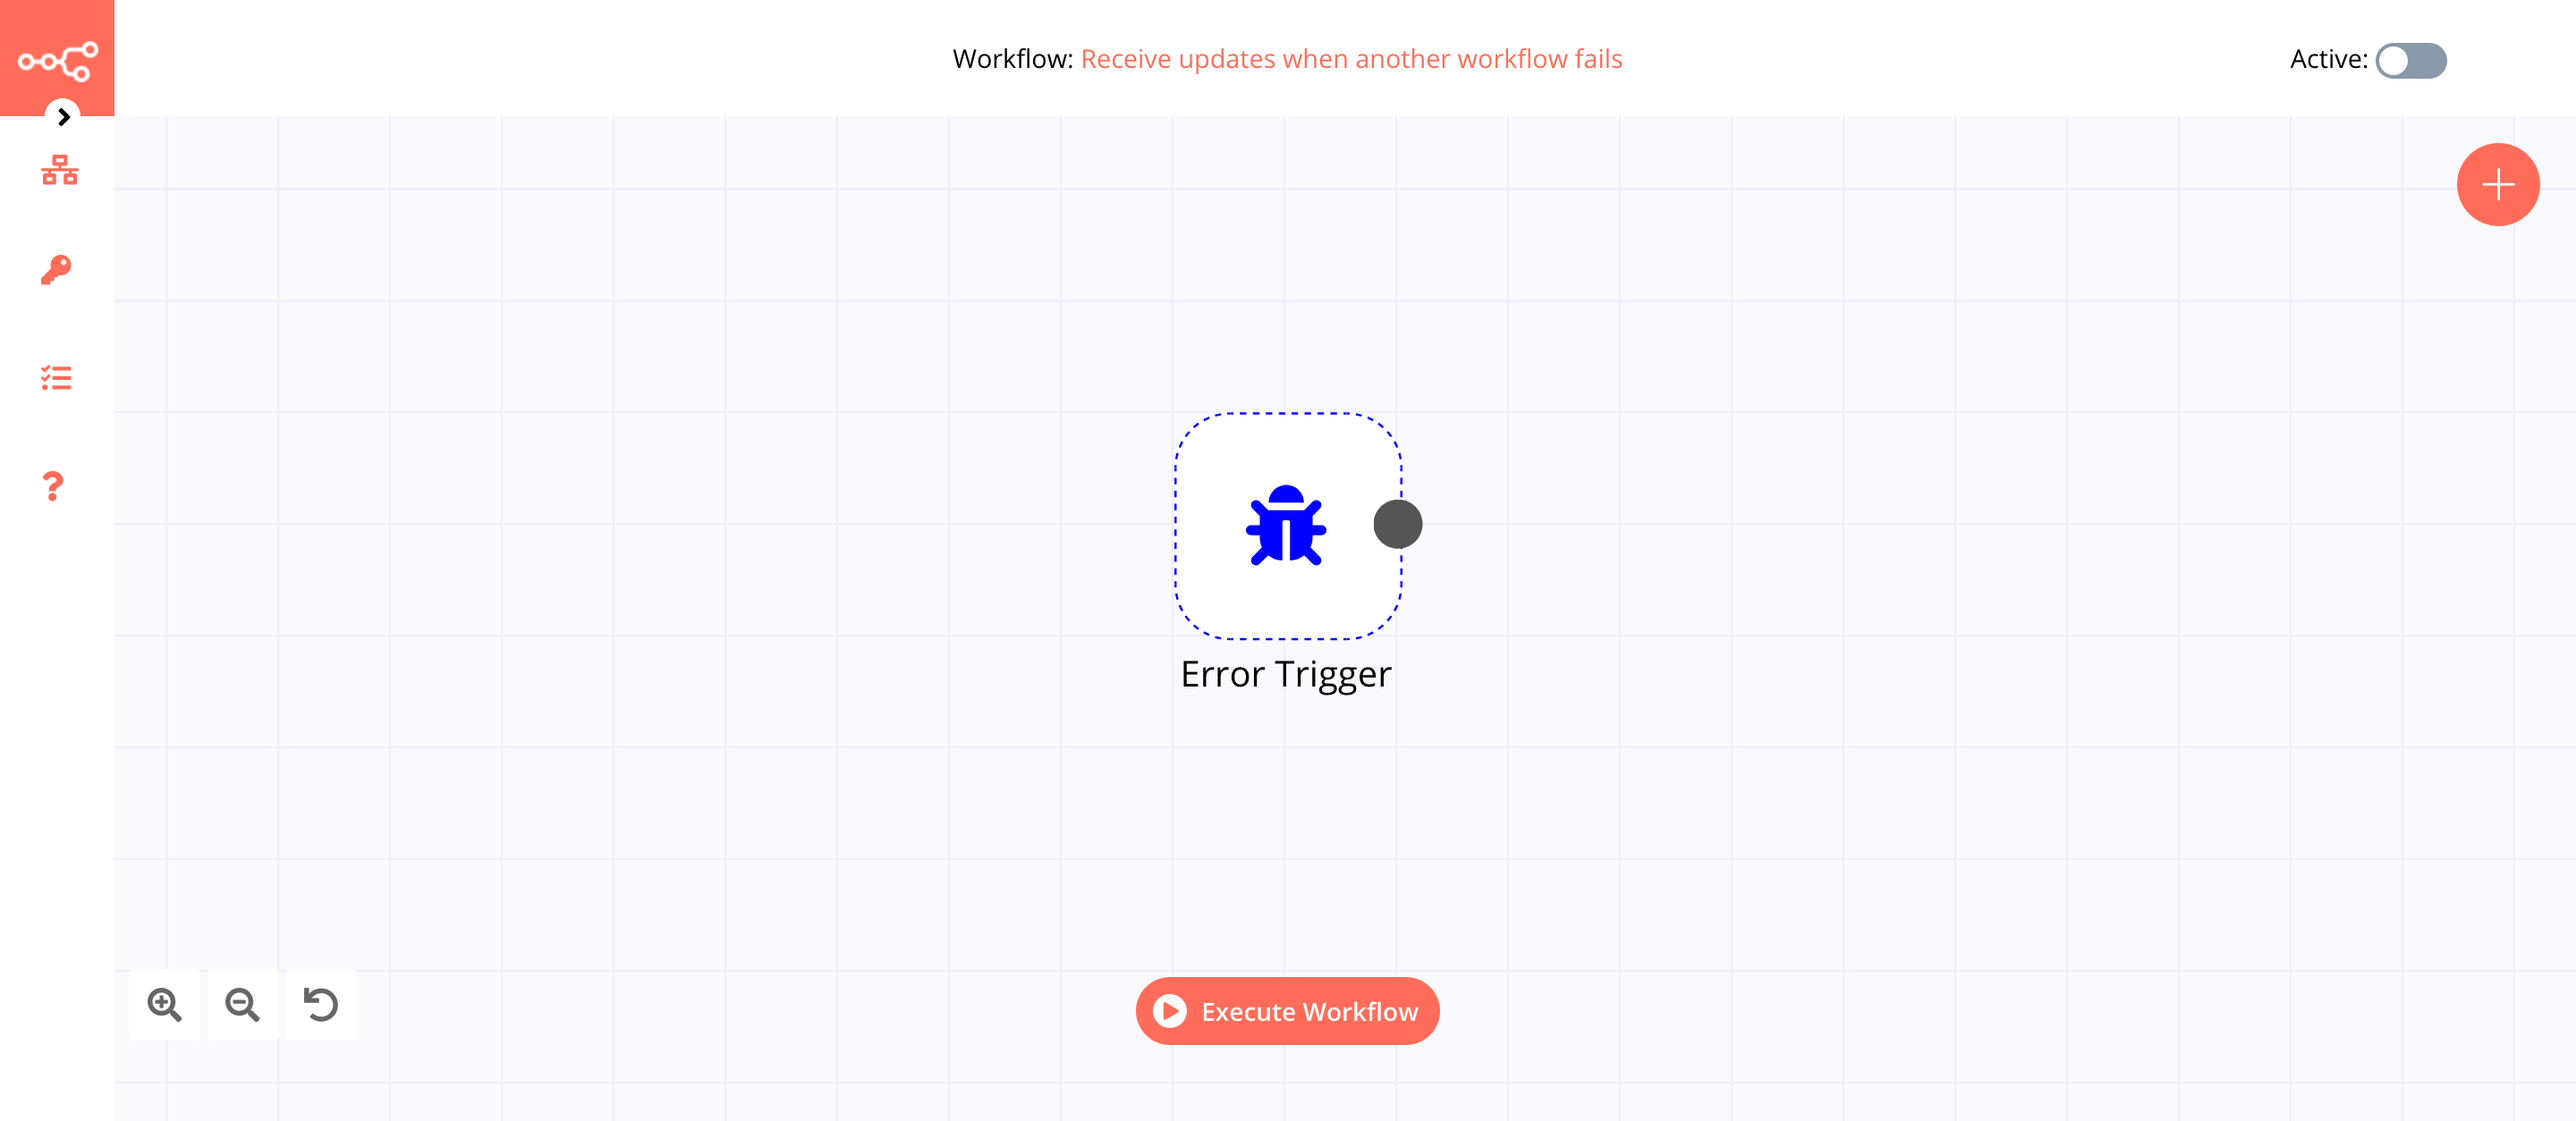
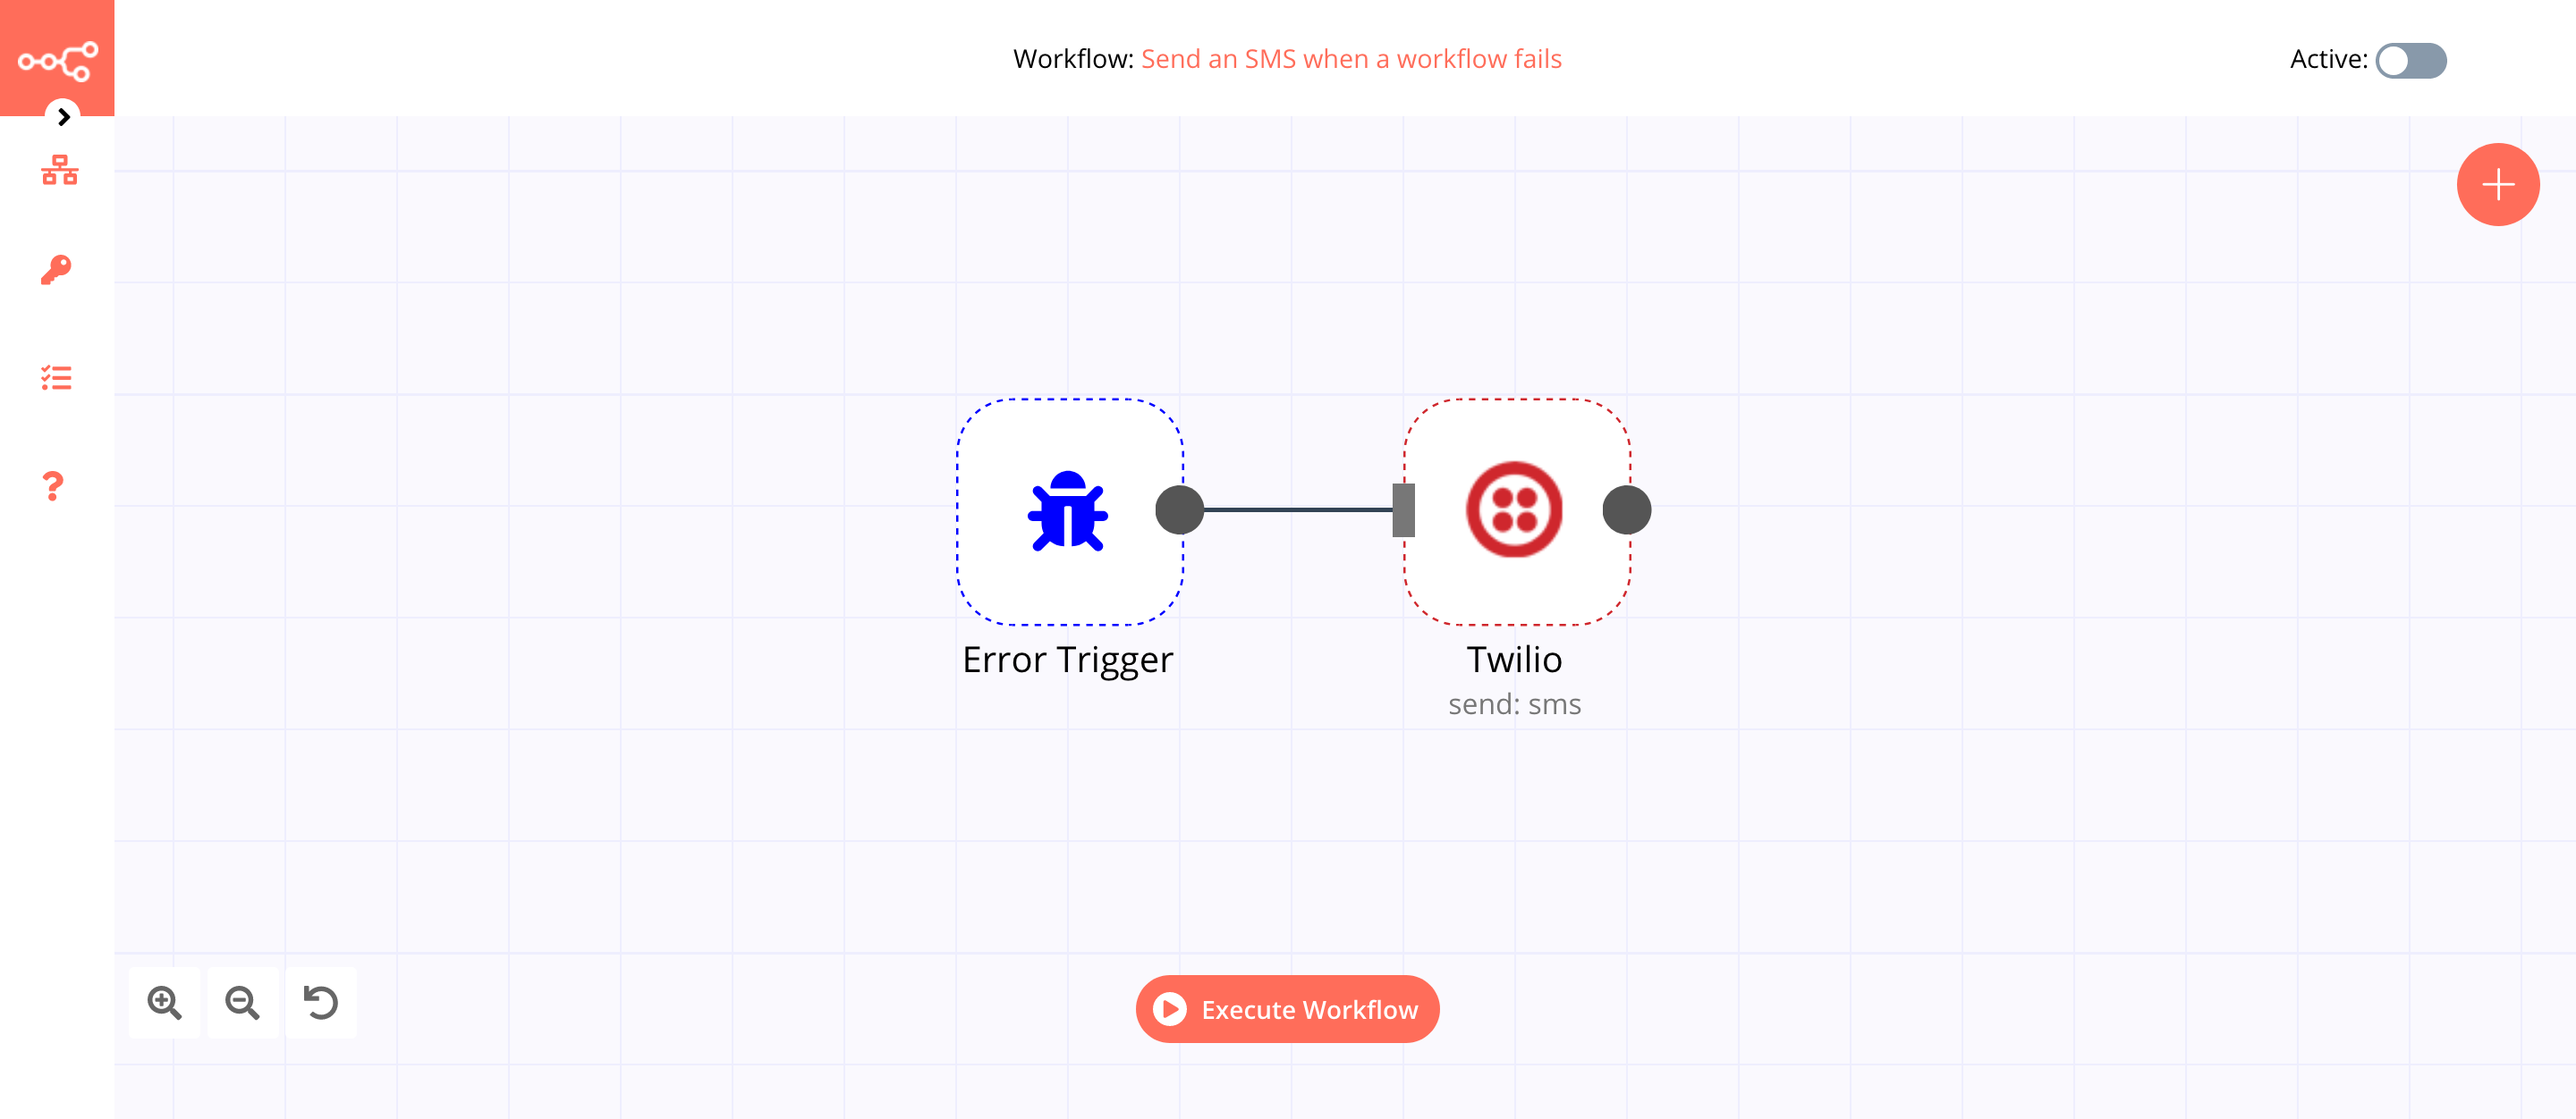
:zap: Add Tips, FAQ and improve workflow

diff --git a/docs/nodes/nodes-library/core-nodes/ErrorTrigger/README.md b/docs/nodes/nodes-library/core-nodes/ErrorTrigger/README.md
@@ -4,12 +4,18 @@ permalink: /nodes/n8n-nodes-base.errorTrigger
 
 # Error Trigger
 
-Error Trigger node triggers the workflow when another workflow has an error. As opposed to other workflows with a trigger node, you won’t have to activate the workflow when using the Error Trigger node. Once a workflow fails, this node automagically gets details about the failed workflow and the error workflow gets triggered.
+Error Trigger node triggers the workflow when another workflow has an error. Once a workflow fails, this node gets details about the failed workflow and the error workflow gets triggered.
+
+::: tip 💡 Keep in mind
+1. If a workflow is using the Error Trigger node, you don't have to activate the workflow.
+2. For the workflow you want to receive updates on failure, make sure that you select the 'Error Workflow' in the ***Workflow Settings***.
+:::
 
 ## Example Usage
 
-This workflow allows you to receive updates when another workflow fails using the Error Trigger node. You can also find the [workflow](https://n8n.io/workflows/662) on n8n.io. This example usage workflow would use the following node.
+This workflow allows you to send an SMS when a workflow fails, using the Error Trigger node. You can also find the [workflow](https://n8n.io/workflows/665) on n8n.io. This example usage workflow would use the following node.
 - [Error Trigger]()
+- [Twilio](../../../nodes-library/nodes/Twilio/README.md)
 
 The final workflow should look like the following image.
 
@@ -18,6 +24,28 @@ The final workflow should look like the following image.
 ### 1. Error Trigger node
 
 1. Click on ***Execute Node*** to run the node.
+
+::: v-pre
+### 2. Twilio node (send: sms)
+
+1. First of all, you'll have to enter credentials for the Twilio node. You can find out how to do that [here](../../../credentials/Twilio/README.md).
+2. Enter the phone number from which you'll be sending the message in the ***From*** field.
+3. Enter the phone number to which you'll be sending the message in the ***To*** field.
+4. Click on the gears icon next to the ***Message*** field and click on ***Add Expression***.
+5. Enter `Your workflow with ID: {{$node["Error Trigger"].json["workflow"]["id"]}} and name: {{$node["Error Trigger"].json["workflow"]["name"]}} failed to execute.` in the ***Expression*** field.
+6. Click on ***Execute Node*** to run the node.
+:::
+
+## FAQs
+
+### Can we send a custom error-message?
+
+The Error Trigger node the actual error-message thrown by the workflow
+You can ignore that error-message but you will always receive the actual error as a message.
+
+### How do we call the Error Workflow manually?
+
+There is currently no special functionality to call an Error Workflow manually.
 
 ## Further Reading
 
